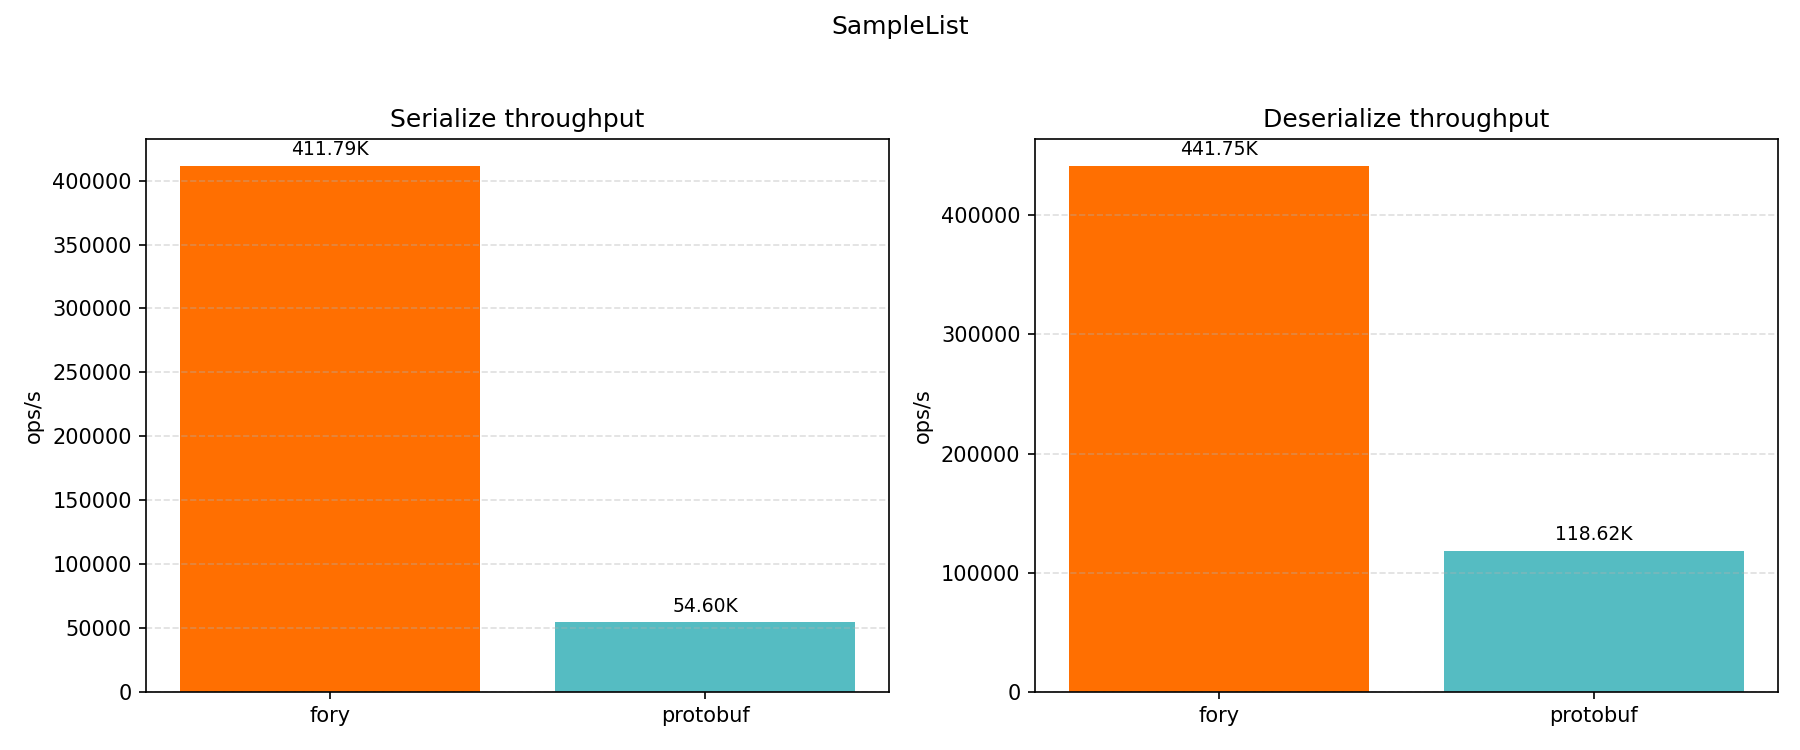
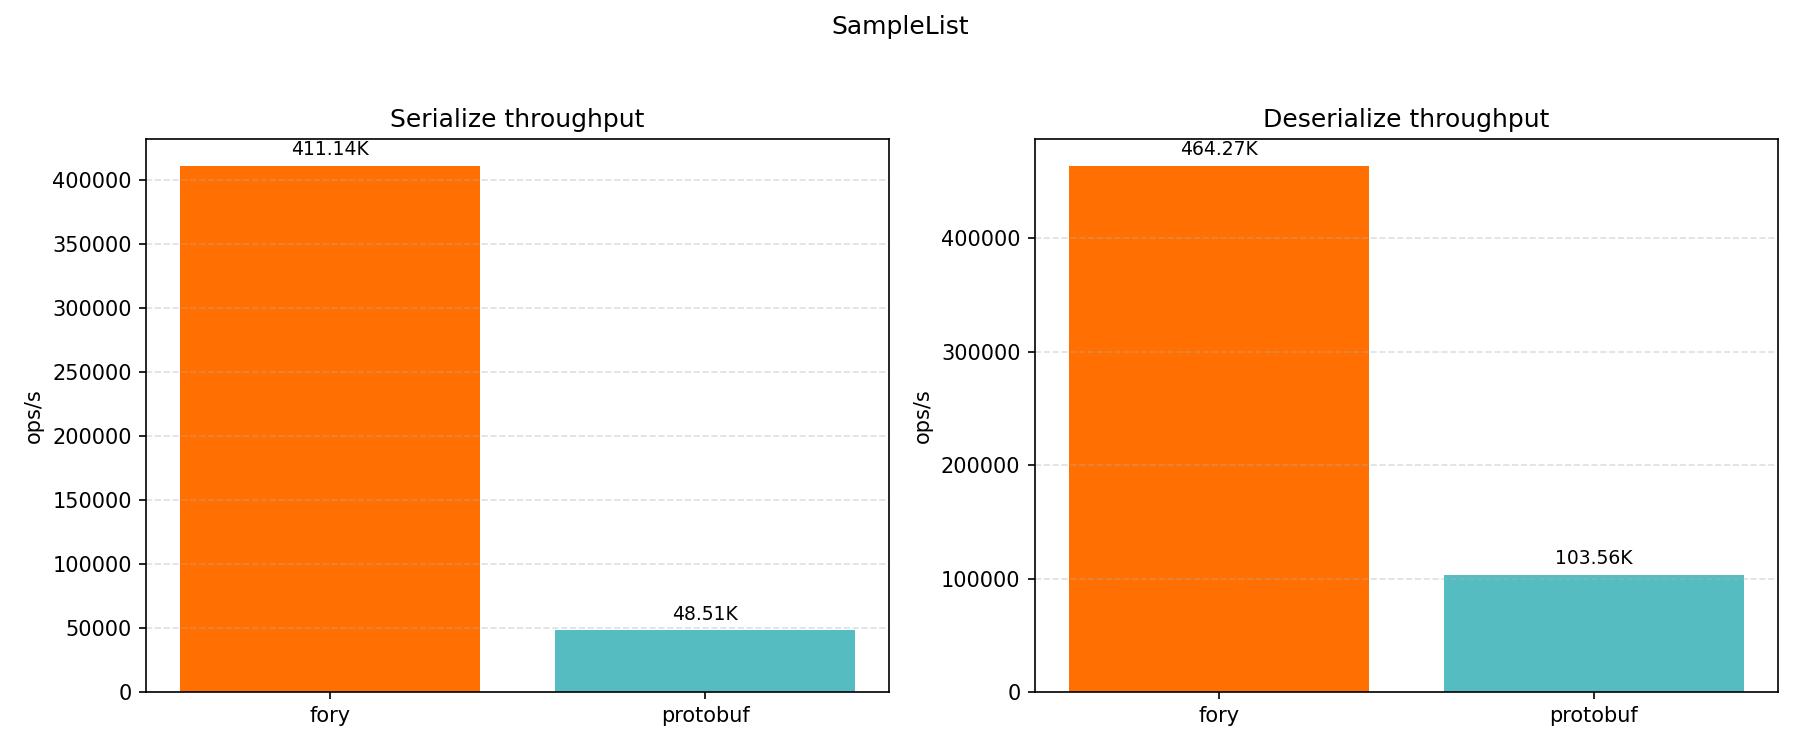
🔄 synced local 'docs/benchmarks/' with remote 'docs/benchmarks/'

diff --git a/docs/benchmarks/dart/README.md b/docs/benchmarks/dart/README.md
@@ -4,36 +4,36 @@ This benchmark compares serialization and deserialization throughput for Apache 
 
 ## Hardware and Runtime Info
 
-| Key                   | Value                                                             |
-| --------------------- | ----------------------------------------------------------------- |
-| Timestamp             | 2026-04-13T06:44:47.141825Z                                       |
-| OS                    | Version 15.7.2 (Build 24G325)                                     |
-| Host                  | MacBook-Pro.local                                                 |
-| CPU Cores (Logical)   | 12                                                                |
-| Memory (GB)           | 48.00                                                             |
-| Dart                  | 3.10.7 (stable) (Tue Dec 23 00:01:57 2025 -0800) on "macos_arm64" |
-| Samples per case      | 5                                                                 |
-| Warmup per case (s)   | 1.0                                                               |
-| Duration per case (s) | 1.5                                                               |
+| Key                   | Value                                                            |
+| --------------------- | ---------------------------------------------------------------- |
+| Timestamp             | 2026-04-13T21:55:28.456625Z                                      |
+| OS                    | Version 26.2 (Build 25C56)                                       |
+| Host                  | Macbook-Air.local                                                |
+| CPU Cores (Logical)   | 8                                                                |
+| Memory (GB)           | 8.00                                                             |
+| Dart                  | 3.10.4 (stable) (Tue Dec 9 00:01:55 2025 -0800) on "macos_arm64" |
+| Samples per case      | 5                                                                |
+| Warmup per case (s)   | 1.0                                                              |
+| Duration per case (s) | 1.5                                                              |
 
 ## Throughput Results
 
 ![Throughput](throughput.png)
 
-| Datatype         | Operation   |  Fory TPS | Protobuf TPS | Fastest          |
-| ---------------- | ----------- | --------: | -----------: | ---------------- |
-| Struct           | Serialize   | 3,875,513 |    2,246,269 | fory (1.73x)     |
-| Struct           | Deserialize | 4,897,372 |    5,085,804 | protobuf (1.04x) |
-| Sample           | Serialize   | 1,686,476 |      579,225 | fory (2.91x)     |
-| Sample           | Deserialize | 1,865,579 |      972,355 | fory (1.92x)     |
-| MediaContent     | Serialize   |   785,533 |      448,202 | fory (1.75x)     |
-| MediaContent     | Deserialize | 1,109,347 |      806,526 | fory (1.38x)     |
-| StructList       | Serialize   | 1,262,676 |      402,451 | fory (3.14x)     |
-| StructList       | Deserialize | 1,444,735 |      765,407 | fory (1.89x)     |
-| SampleList       | Serialize   |   411,793 |       54,598 | fory (7.54x)     |
-| SampleList       | Deserialize |   441,751 |      118,623 | fory (3.72x)     |
-| MediaContentList | Serialize   |   178,695 |       86,306 | fory (2.07x)     |
-| MediaContentList | Deserialize |   266,480 |      156,231 | fory (1.71x)     |
+| Datatype         | Operation   |  Fory TPS | Protobuf TPS | Fastest      |
+| ---------------- | ----------- | --------: | -----------: | ------------ |
+| Struct           | Serialize   | 3,989,432 |    1,884,653 | fory (2.12x) |
+| Struct           | Deserialize | 5,828,197 |    4,199,680 | fory (1.39x) |
+| Sample           | Serialize   | 1,649,722 |      500,167 | fory (3.30x) |
+| Sample           | Deserialize | 2,060,113 |      785,109 | fory (2.62x) |
+| MediaContent     | Serialize   |   800,876 |      391,235 | fory (2.05x) |
+| MediaContent     | Deserialize | 1,315,115 |      683,533 | fory (1.92x) |
+| StructList       | Serialize   | 1,456,396 |      367,506 | fory (3.96x) |
+| StructList       | Deserialize | 1,921,006 |      645,958 | fory (2.97x) |
+| SampleList       | Serialize   |   411,144 |       48,508 | fory (8.48x) |
+| SampleList       | Deserialize |   464,273 |      103,558 | fory (4.48x) |
+| MediaContentList | Serialize   |   186,870 |       77,029 | fory (2.43x) |
+| MediaContentList | Deserialize |   330,293 |      128,215 | fory (2.58x) |
 
 ## Serialized Size (bytes)
 
